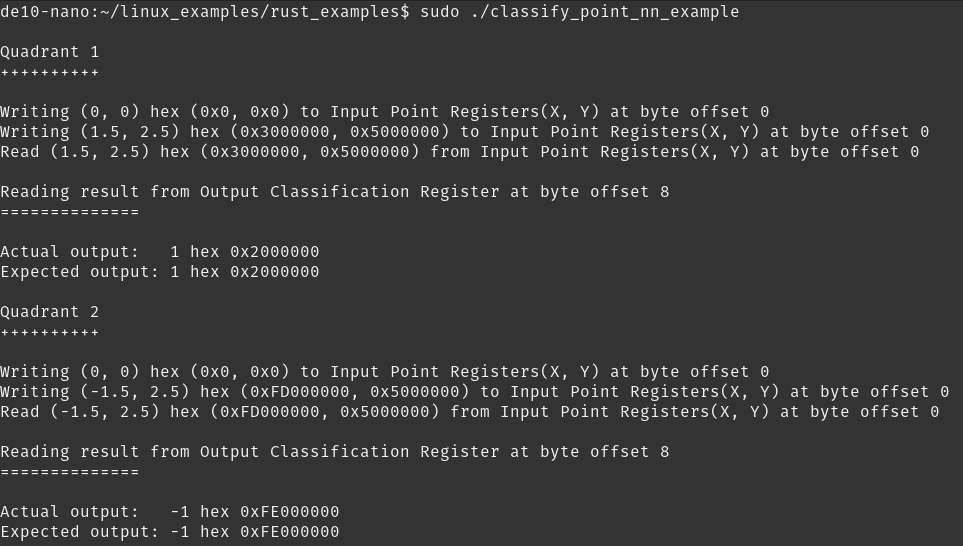
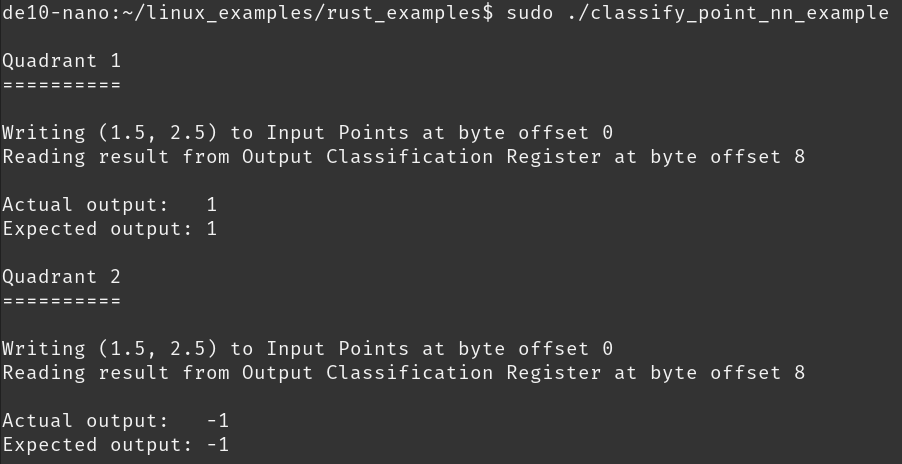
Simplify example; minor slide tweaks.

diff --git a/rust/src/bin/classify_point_nn_example.rs b/rust/src/bin/classify_point_nn_example.rs
@@ -8,182 +8,75 @@ use sbtb::{
 
 use fixed::types::I7F25;
 
-fn fx_to_u32(fx: I7F25) -> u32 {
-    u32::from_le_bytes(fx.to_le_bytes())
-}
-
 fn run() -> FpgaApiResult<()> {
     // Get the FPGA singleton. Better not try and do this more than once!
     let mut sesh = take_fpga_session();
 
     // Define the resources.
-    let input_point = Resource::<(I7F25, I7F25), ReadWrite>::new(
-        "Input Point Registers(X, Y)",
-        POINT_NN_INPUT_VECTOR_OFFSET,
-    );
+    let input_point =
+        Resource::<(I7F25, I7F25), ReadWrite>::new("Input Points", POINT_NN_INPUT_VECTOR_OFFSET);
     let output_class = Resource::<I7F25, ReadOnly>::new(
         "Output Classification Register",
         POINT_NN_OUTPUT_CLASS_OFFSET,
     );
 
     // Locations (Fixed point 7/25 values).
+    let zero = I7F25::from_num(0);
     let (pos_x, neg_x) = (I7F25::from_num(1.5), I7F25::from_num(-1.5));
     let (pos_y, neg_y) = (I7F25::from_num(2.5), I7F25::from_num(-2.5));
-
-    let (pos_x_hex_literal, neg_x_hex_literal) = (fx_to_u32(pos_x), fx_to_u32(neg_x));
-    let (pos_y_hex_literal, neg_y_hex_literal) = (fx_to_u32(pos_y), fx_to_u32(neg_y));
-
-    let zero = I7F25::from_num(0);
-    let zero_hex_literal = fx_to_u32(zero);
 
     // Do some FPGA stuff!
     // Quadrant 1.
     println!("\nQuadrant 1");
-    println!("++++++++++\n");
-    println!(
-        "Writing ({}, {}) hex ({:#X}, {:#X}) to {}",
-        zero, zero, zero_hex_literal, zero_hex_literal, &input_point
-    );
+    println!("==========\n");
     sesh.write(&input_point, (zero, zero))?;
-    println!(
-        "Writing ({}, {}) hex ({:#X}, {:#X}) to {}",
-        pos_x, pos_y, pos_x_hex_literal, pos_y_hex_literal, &input_point
-    );
+    assert_eq!(sesh.read(&input_point)?, (zero, zero));
+    println!("Writing ({}, {}) to {}", pos_x, pos_y, &input_point);
     sesh.write(&input_point, (pos_x, pos_y))?;
-    let (px, py) = sesh.read(&input_point)?;
-    println!(
-        "Read ({}, {}) hex ({:#X}, {:#X}) from {}",
-        px,
-        py,
-        fx_to_u32(px),
-        fx_to_u32(py),
-        &input_point
-    );
-    println!("\nReading result from {}", &output_class);
-    println!("==============\n");
+    println!("Reading result from {}", &output_class);
     let q1_actual = sesh.read(&output_class)?;
     let q1_expected = I7F25::from_num(1.0);
-    println!(
-        "Actual output:   {} hex {:#X}",
-        q1_actual,
-        fx_to_u32(q1_actual)
-    );
-    println!(
-        "Expected output: {} hex {:#X}",
-        q1_expected,
-        fx_to_u32(q1_expected)
-    );
+    println!("\nActual output:   {}", q1_actual,);
+    println!("Expected output: {}", q1_expected,);
 
     // Quadrant 2.
     println!("\nQuadrant 2");
-    println!("++++++++++\n");
-    println!(
-        "Writing ({}, {}) hex ({:#X}, {:#X}) to {}",
-        zero, zero, zero_hex_literal, zero_hex_literal, &input_point
-    );
+    println!("==========\n");
     sesh.write(&input_point, (zero, zero))?;
-    println!(
-        "Writing ({}, {}) hex ({:#X}, {:#X}) to {}",
-        neg_x, pos_y, neg_x_hex_literal, pos_y_hex_literal, &input_point
-    );
+    assert_eq!(sesh.read(&input_point)?, (zero, zero));
+    println!("Writing ({}, {}) to {}", pos_x, pos_y, &input_point);
     sesh.write(&input_point, (neg_x, pos_y))?;
-    let (px, py) = sesh.read(&input_point)?;
-    println!(
-        "Read ({}, {}) hex ({:#X}, {:#X}) from {}",
-        px,
-        py,
-        fx_to_u32(px),
-        fx_to_u32(py),
-        &input_point
-    );
-    println!("\nReading result from {}", &output_class);
-    println!("==============\n");
+    println!("Reading result from {}", &output_class);
     let q2_actual = sesh.read(&output_class)?;
     let q2_expected = I7F25::from_num(-1.0);
-    println!(
-        "Actual output:   {} hex {:#X}",
-        q2_actual,
-        fx_to_u32(q2_actual)
-    );
-    println!(
-        "Expected output: {} hex {:#X}",
-        q2_expected,
-        fx_to_u32(q2_expected)
-    );
+    println!("\nActual output:   {}", q2_actual,);
+    println!("Expected output: {}", q2_expected,);
 
     // Quadrant 3.
     println!("\nQuadrant 3");
-    println!("++++++++++\n");
-    println!(
-        "Writing ({}, {}) hex ({:#X}, {:#X}) to {}",
-        zero, zero, zero_hex_literal, zero_hex_literal, &input_point
-    );
+    println!("==========\n");
     sesh.write(&input_point, (zero, zero))?;
-    println!(
-        "Writing ({}, {}) hex ({:#X}, {:#X}) to {}",
-        neg_x, neg_y, neg_x_hex_literal, neg_y_hex_literal, &input_point
-    );
+    assert_eq!(sesh.read(&input_point)?, (zero, zero));
+    println!("Writing ({}, {}) to {}", pos_x, pos_y, &input_point);
     sesh.write(&input_point, (neg_x, neg_y))?;
-    let (px, py) = sesh.read(&input_point)?;
-    println!(
-        "Read ({}, {}) hex ({:#X}, {:#X}) from {}",
-        px,
-        py,
-        fx_to_u32(px),
-        fx_to_u32(py),
-        &input_point
-    );
-    println!("\nReading result from {}", &output_class);
-    println!("==============\n");
+    println!("Reading result from {}", &output_class);
     let q3_actual = sesh.read(&output_class)?;
     let q3_expected = q1_expected;
-    println!(
-        "Actual output:   {} hex {:#X}",
-        q3_actual,
-        fx_to_u32(q3_actual)
-    );
-    println!(
-        "Expected output: {} hex {:#X}",
-        q3_expected,
-        fx_to_u32(q3_expected)
-    );
+    println!("\nActual output:   {}", q3_actual,);
+    println!("Expected output: {}", q3_expected,);
 
     // Quadrant 4.
     println!("\nQuadrant 4");
-    println!("++++++++++\n");
-    println!(
-        "Writing ({}, {}) hex ({:#X}, {:#X}) to {}",
-        zero, zero, zero_hex_literal, zero_hex_literal, &input_point
-    );
+    println!("==========\n");
     sesh.write(&input_point, (zero, zero))?;
-    println!(
-        "Writing ({}, {}) hex ({:#X}, {:#X}) to {}",
-        pos_x, neg_y, pos_x_hex_literal, neg_y_hex_literal, &input_point
-    );
+    assert_eq!(sesh.read(&input_point)?, (zero, zero));
+    println!("Writing ({}, {}) to {}", pos_x, pos_y, &input_point);
     sesh.write(&input_point, (pos_x, neg_y))?;
-    let (px, py) = sesh.read(&input_point)?;
-    println!(
-        "Read ({}, {}) hex ({:#X}, {:#X}) from {}",
-        px,
-        py,
-        fx_to_u32(px),
-        fx_to_u32(py),
-        &input_point
-    );
-    println!("\nReading result from {}", &output_class);
-    println!("==============\n");
+    println!("Reading result from {}", &output_class);
     let q4_actual = sesh.read(&output_class)?;
     let q4_expected = q2_expected;
-    println!(
-        "Actual output:   {} hex {:#X}",
-        q4_actual,
-        fx_to_u32(q4_actual)
-    );
-    println!(
-        "Expected output: {} hex {:#X}",
-        q4_expected,
-        fx_to_u32(q4_expected)
-    );
+    println!("\nActual output:   {}", q4_actual,);
+    println!("Expected output: {}", q4_expected,);
 
     Ok(())
 }

diff --git a/presentation/sbtb-2020-type-safe-fpga.md b/presentation/sbtb-2020-type-safe-fpga.md
@@ -504,20 +504,6 @@ Rust's RAII and affine type system allows us to ensure FPGA/HW state invariants:
 - \textcolor[rgb]{0,0.5,0}{Must implement `Drop` to finalize state of the FPGA (and any associated HW) when we're done.}
 - \textcolor[rgb]{0,0.5,0}{You cannot then forget to `Drop` -- in happy or sad code paths!}
 
-Encode `Session` HW Invariant: Initialization
----------------------------------------------
-
-```rust
-impl MmapSession {
-    // The only way to get an instance of our `Session` type.
-    pub fn new(mmap: MmapMut) -> FpgaApiResult<Self> {
-        let mut sesh = Self { mmap };
-        sesh.initialize()?; // HW initialization here.
-        Ok(sesh)
-    }
-}
-```
-
 Encode `Session` HW Invariant: Finalization
 -------------------------------------------
 
@@ -555,12 +541,12 @@ Bringing It All Together in the Session: Helper Traits
 ------------------------------------------------------
 
 ```rust
-pub trait Readable {
+pub trait Readable { // A readable FPGA resource.
     type Value: Data;
     fn byte_offset(&self) -> usize;
     fn size_in_bytes(&self) -> usize;
 }
-pub trait Writable {
+pub trait Writable { // A writable FPGA resource.
     type Value: Data;
     fn byte_offset(&self) -> usize;
     fn size_in_bytes(&self) -> usize;
